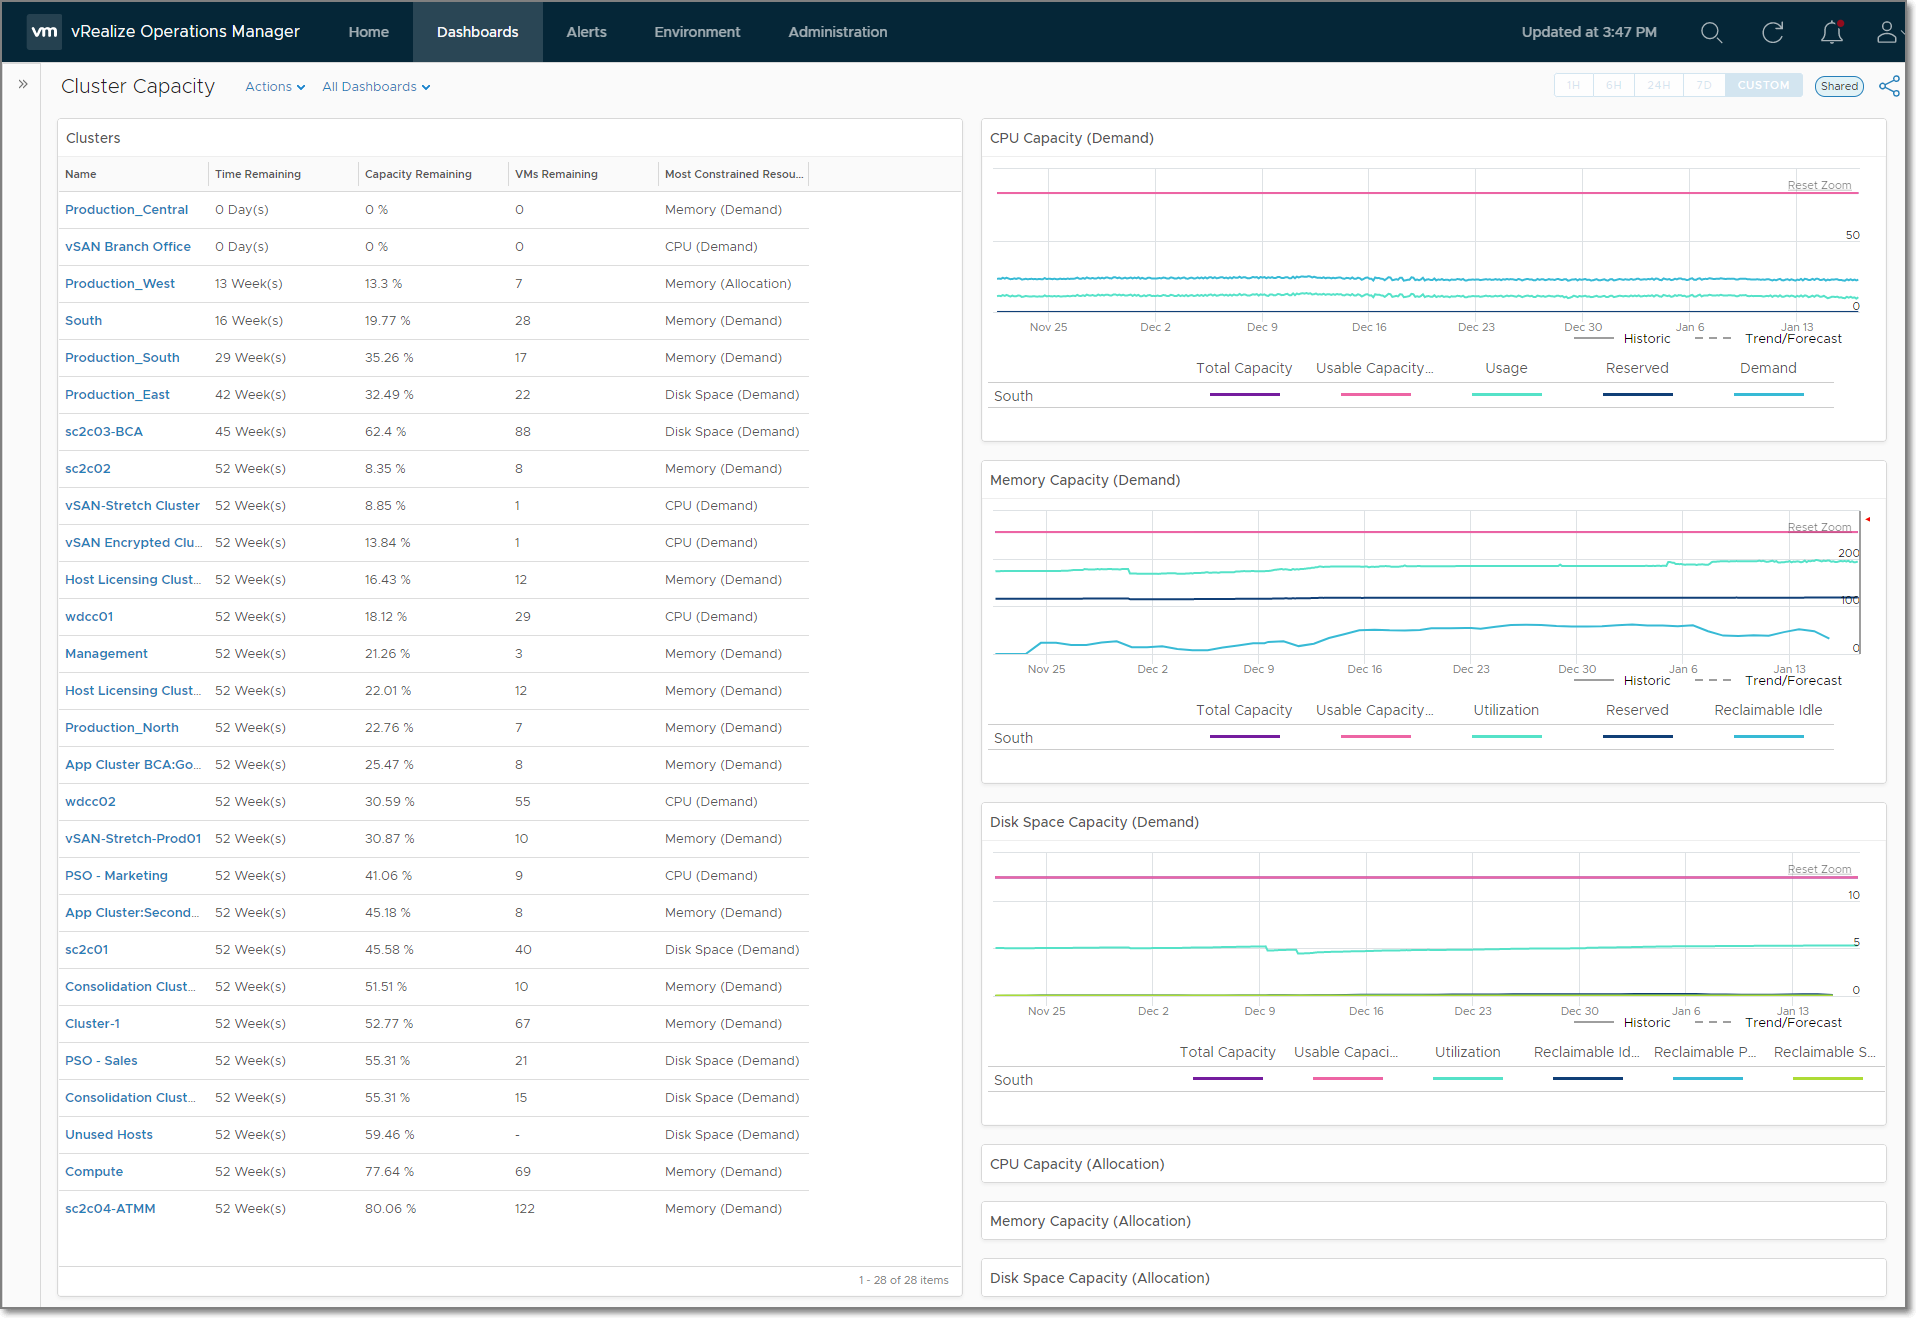
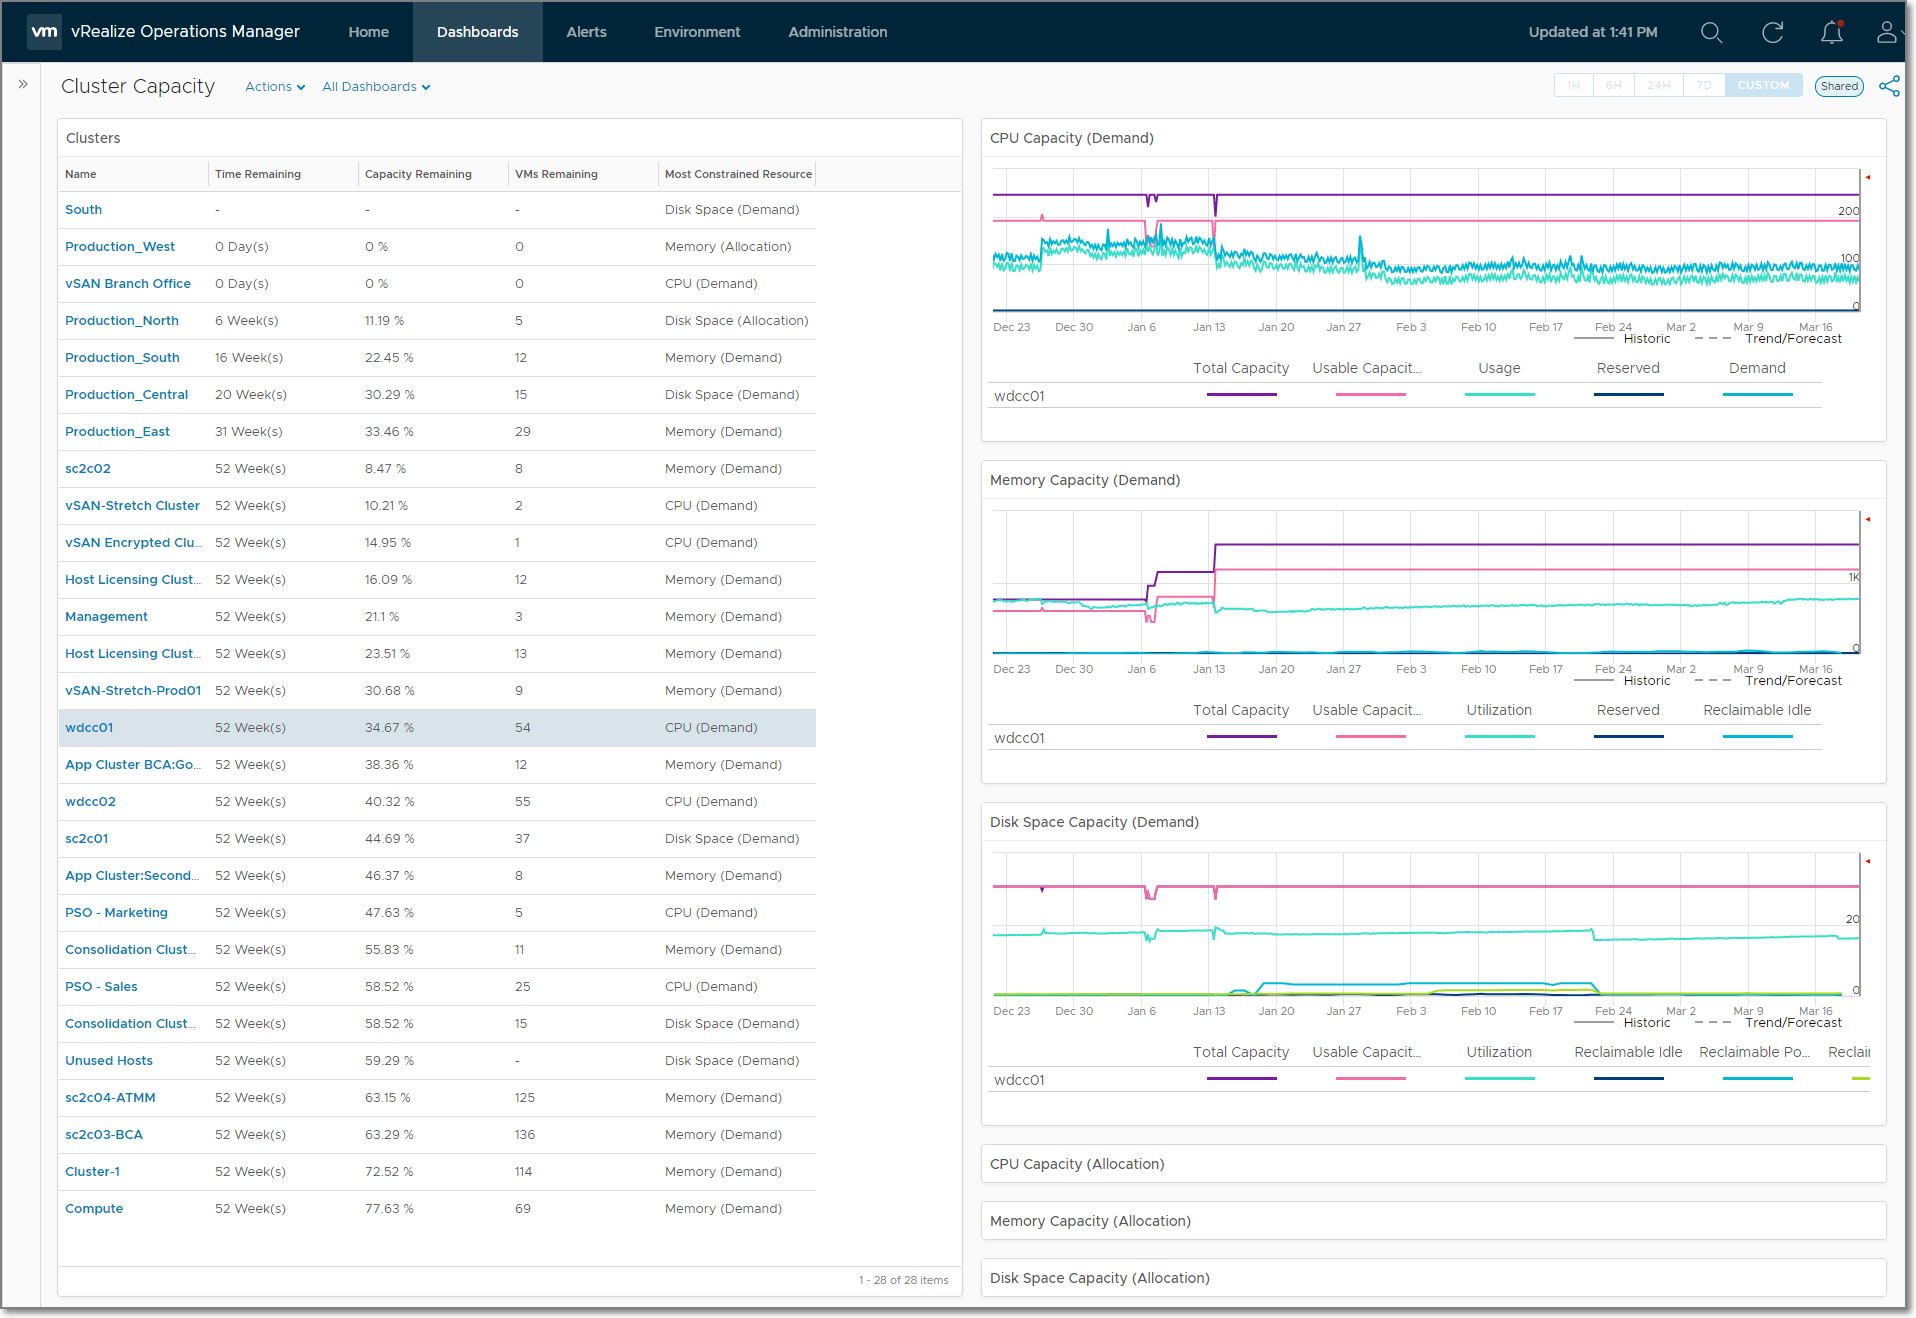
Update to latest version

diff --git a/README.md b/README.md
@@ -2,7 +2,7 @@
 # Cluster Capacity Dashboard for vRealize Operations 8.0
 ---------
 
-Use this [vRealize Operations](https://www.vmware.com/products/vrealize-operations.html) dashboard to expore cluster capacity ranked by Time Remaining, Capacity Remaining, and VMs Remaining.  Select a cluster to see Total Capacity, Usable Capacity, Usage, and Demand for the cluster.
+Use this [vRealize Operations](https://www.vmware.com/products/vrealize-operations.html) dashboard to expore cluster capacity ranked by Time Remaining, Capacity Remaining, VMs Remaining, and Most Constrained Resource.  Select a cluster to see Total Capacity, Usable Capacity, Usage, and Demand for CPU, Memory and Disk Space in the selected cluster.
 
 ## Dashboard
 ![Dashboard](https://raw.githubusercontent.com/notoriousbdg/vrops-dashboard-cluster_capacity/master/Dashboard.png)
@@ -10,18 +10,21 @@ Use this [vRealize Operations](https://www.vmware.com/products/vrealize-operatio
 ## Installation
 1. Import the super metric at `Administration` / `Configuration` / `Super Metrics` / `Import Super Metric`  
 ![Import View](https://raw.githubusercontent.com/notoriousbdg/vrops-dashboard-cluster_capacity/master/Import_Super_Metric.png)
-2. Click `Browse...` then select the file named [SuperMetrics.json](https://raw.githubusercontent.com/notoriousbdg/vrops-dashboard-cluster_capacity/master/Supermetrics.json)
+2. Click `Browse...` then select the file named [Supermetrics.json](https://raw.githubusercontent.com/notoriousbdg/vrops-dashboard-cluster_capacity/master/Supermetrics.json)
 3. Edit the Policy at `Administration` / `Policies` / `Policy Library`.  The policy should be `vSphere Solution's Default Policy (DATE)` unless a new policy was explicitly created.  
 ![Policy Library](https://raw.githubusercontent.com/notoriousbdg/vrops-dashboard-cluster_capacity/master/Policy_Library.png)
 4. Enable Super Metrics that start with `Super Metric|Most Constrained` for Cluster Compute Resource objects only.
 ![Policy Metrics](https://raw.githubusercontent.com/notoriousbdg/vrops-dashboard-cluster_capacity/master/Policy_Metrics.png)
-5. Import the view at `Dashboards` / `Views` / `Import...`  
+5. Import the custom groups at `Environment` / `Custom Groups` / `Gear Icon` / `Import Custom Group(s)`  
+![Import Custom Groups](https://raw.githubusercontent.com/notoriousbdg/vrops-dashboard-cluster_capacity/master/Import_CustomGroup.png)
+6. Click `Browse...` then select the file named [CustomGroups.json](https://raw.githubusercontent.com/notoriousbdg/vrops-dashboard-cluster_capacity/master/CustomGroups.json)
+7. Import the view at `Dashboards` / `Views` / `Import...`  
 ![Import View](https://raw.githubusercontent.com/notoriousbdg/vrops-dashboard-cluster_capacity/master/Import_View.png)
-6. Click `Browse...` then select the file named [Views.zip](https://github.com/notoriousbdg/vrops-dashboard-cluster_capacity/raw/master/Views.zip)
-7. Import the dashboard at `Dashboards` / `Actions` / `Manage Dashboards` / `Import Dashboards`  
+8. Click `Browse...` then select the file named [Views.zip](https://github.com/notoriousbdg/vrops-dashboard-cluster_capacity/raw/master/Views.zip)
+9. Import the dashboard at `Dashboards` / `Actions` / `Manage Dashboards` / `Import Dashboards`  
 ![Import Dashboard](https://raw.githubusercontent.com/notoriousbdg/vrops-dashboard-cluster_capacity/master/Import_Dashboard.png)
-8. Click `Browse...` then select the file named [Dashboard.zip](https://github.com/notoriousbdg/vrops-dashboard-cluster_capacity/raw/master/Dashboard.zip)
-9. The dashboard should now be available in in the dashboard list  
+10. Click `Browse...` then select the file named [Dashboard.zip](https://github.com/notoriousbdg/vrops-dashboard-cluster_capacity/raw/master/Dashboard.zip)
+11. The dashboard should now be available in in the dashboard list  
 ![Dashboard List](https://raw.githubusercontent.com/notoriousbdg/vrops-dashboard-cluster_capacity/master/Dashboard_List.png)
 
 ## Support
